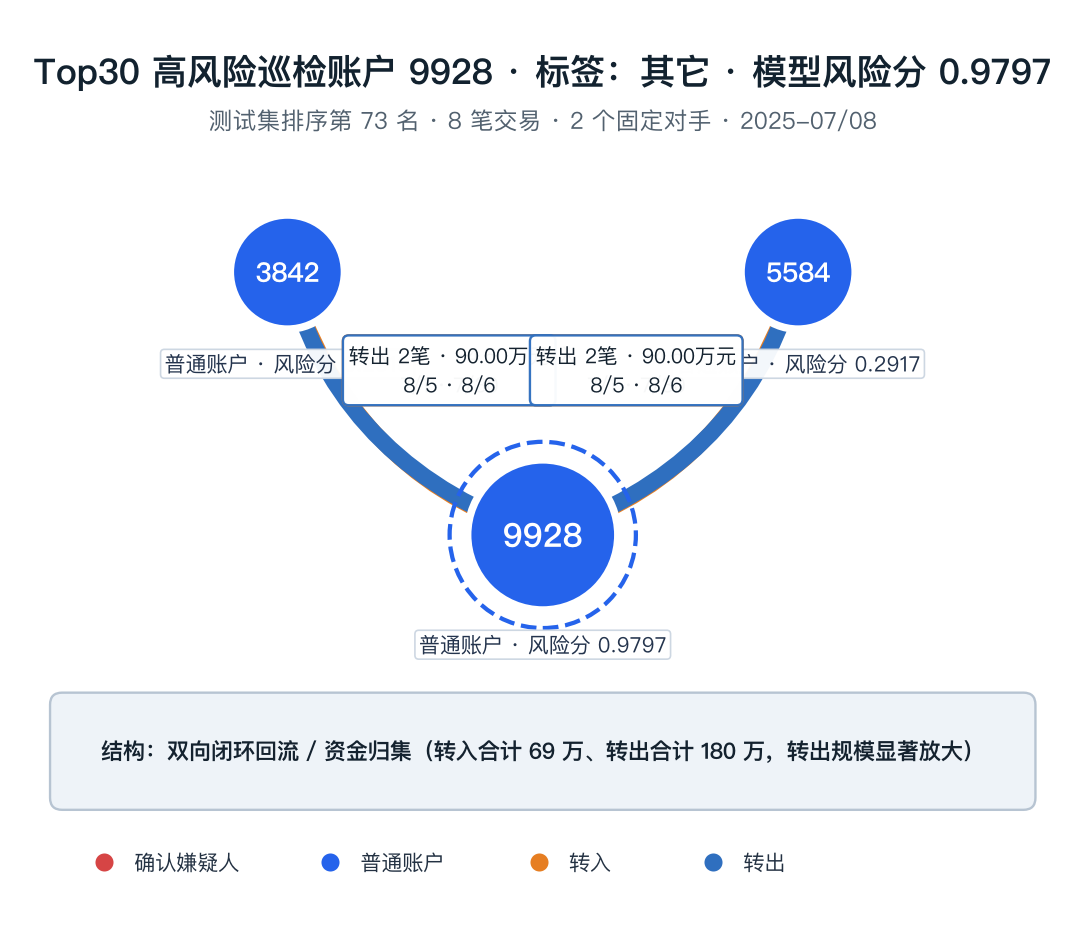
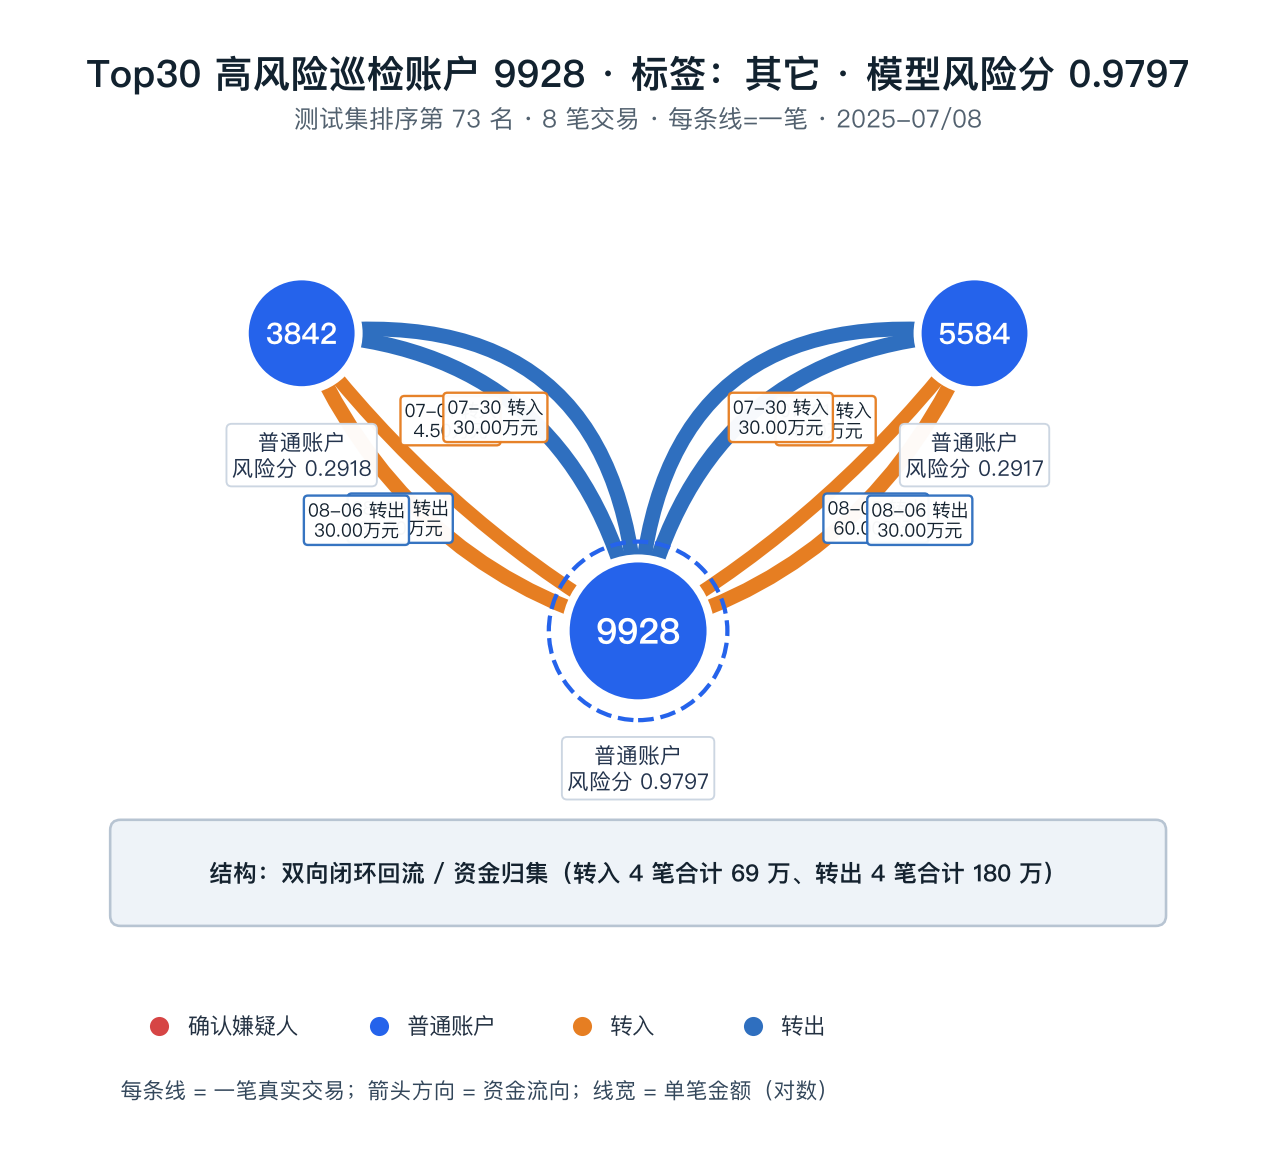
图谱按单笔交易绘制并同步md图例与网页说明

Changed region(s): [[0.0304, 0.2137, 0.9733, 0.9463], [0.0304, 0.0305, 0.9733, 0.1526]]

diff --git a/outputs/dynamic_graph/index.html b/outputs/dynamic_graph/index.html
@@ -213,7 +213,7 @@
   <main id="reportView" class="view wide"><div class="section-head"><div><h2>辅助研判报告</h2><p>报告同时引用模型风险分、交易统计、关键交易边/路径、图结构或动态特征中的至少两类证据。</p></div></div><div id="reportGrid" class="report-grid"></div><div class="subsection"><h3>报告原文</h3><pre id="rawReport" class="raw-report"></pre></div></main>
   
   <main id="evidenceView" class="view wide">
-    <div class="section-head"><div><h2>典型链路证据（测试集真实子图）</h2><p>仅展示本项目从测试集真实交易边生成的资金图谱，数据截至 2025-12-31，不含未来交易。节点颜色：红=确认嫌疑人，橙=受害人，蓝=其它；橙色箭头=转入，蓝色箭头=转出，边宽=金额对数。</p></div></div>
+    <div class="section-head"><div><h2>典型链路证据（测试集真实子图）</h2><p>仅展示本项目从测试集真实交易边生成的资金图谱，数据截至 2025-12-31，不含未来交易。节点颜色：红=确认嫌疑人，橙=受害人，蓝=其它；橙色箭头=转入，蓝色箭头=转出；每条线=一笔真实交易，线宽=单笔金额对数。</p></div></div>
     <div class="evidence-grid">
       <article class="evidence-card"><img src="../../docs/images/appendix_d_4379_loop.png" alt="账户4379闭环回流"><div class="card-body"><h3>账户 4379 · 确认嫌疑人 · 风险分 0.9034</h3><p>2025-11-19 15:37:53 向 10662、10949 各转出 3000 元，15:38:14 原路回流，间隔 21 秒；结构：闭环回流/快进快出。</p></div></article>
       <article class="evidence-card"><img src="../../docs/images/appendix_d_1740_star.png" alt="账户1740星状汇聚"><div class="card-body"><h3>账户 1740 · 确认嫌疑人 · 风险分 0.7460</h3><p>3863、7838 两个固定对手三期重复转入，合计 18828.88 元；结构：星状汇聚/分散入账。</p></div></article>

diff --git a/src/09_dynamic_graph_viz.py b/src/09_dynamic_graph_viz.py
@@ -1075,7 +1075,7 @@ EVIDENCE_CSS = """
 
 EVIDENCE_VIEW = """
   <main id="evidenceView" class="view wide">
-    <div class="section-head"><div><h2>典型链路证据（测试集真实子图）</h2><p>仅展示本项目从测试集真实交易边生成的资金图谱，数据截至 2025-12-31，不含未来交易。节点颜色：红=确认嫌疑人，橙=受害人，蓝=其它；橙色箭头=转入，蓝色箭头=转出，边宽=金额对数。</p></div></div>
+    <div class="section-head"><div><h2>典型链路证据（测试集真实子图）</h2><p>仅展示本项目从测试集真实交易边生成的资金图谱，数据截至 2025-12-31，不含未来交易。节点颜色：红=确认嫌疑人，橙=受害人，蓝=其它；橙色箭头=转入，蓝色箭头=转出；每条线=一笔真实交易，线宽=单笔金额对数。</p></div></div>
     <div class="evidence-grid">
       <article class="evidence-card"><img src="../../docs/images/appendix_d_4379_loop.png" alt="账户4379闭环回流"><div class="card-body"><h3>账户 4379 · 确认嫌疑人 · 风险分 0.9034</h3><p>2025-11-19 15:37:53 向 10662、10949 各转出 3000 元，15:38:14 原路回流，间隔 21 秒；结构：闭环回流/快进快出。</p></div></article>
       <article class="evidence-card"><img src="../../docs/images/appendix_d_1740_star.png" alt="账户1740星状汇聚"><div class="card-body"><h3>账户 1740 · 确认嫌疑人 · 风险分 0.7460</h3><p>3863、7838 两个固定对手三期重复转入，合计 18828.88 元；结构：星状汇聚/分散入账。</p></div></article>

diff --git a/docs/附录D_资金图谱可视化与缺边审计.md b/docs/附录D_资金图谱可视化与缺边审计.md
@@ -28,7 +28,7 @@
 
 ## 图例与口径说明
 
-节点颜色：**红色=确认嫌疑人，橙色=受害人，蓝色=其它**；节点下方显示账户 ID、标签与模型风险分；橙色箭头=转入，蓝色箭头=转出，边宽表示合计金额（对数缩放），边标签显示笔数与合计金额或单笔时间。所有图谱只使用截至测试期截止（2025-12-31）的历史交易，未使用未来交易。
+节点颜色：**红色=确认嫌疑人，橙色=受害人，蓝色=其它**；节点下方显示账户 ID、标签与模型风险分；橙色箭头=转入，蓝色箭头=转出；**每条线=一笔真实交易**，线宽=单笔金额（对数），边标签显示单笔时间与金额。所有图谱只使用截至测试期截止（2025-12-31）的历史交易，未使用未来交易。
 
 ## 数据局限与缺边审计
 
